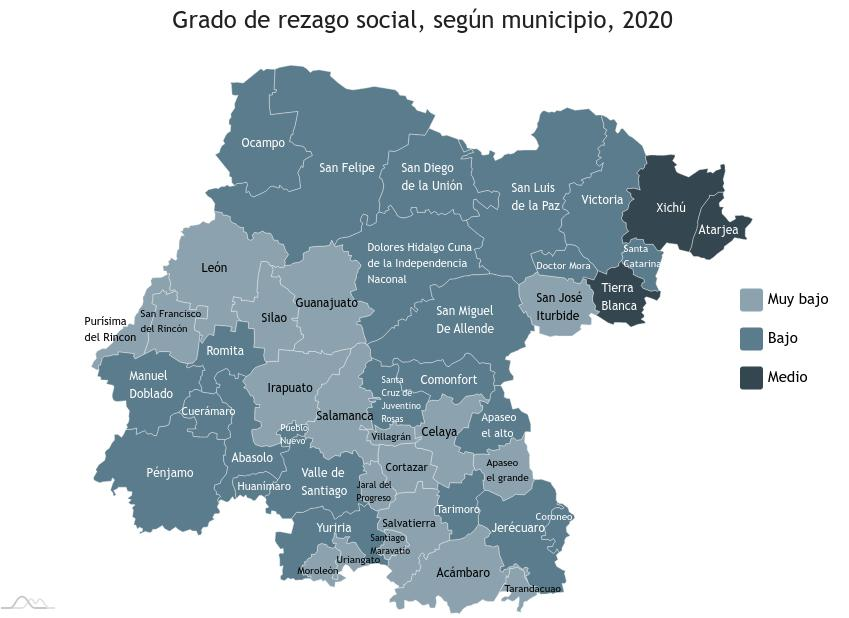
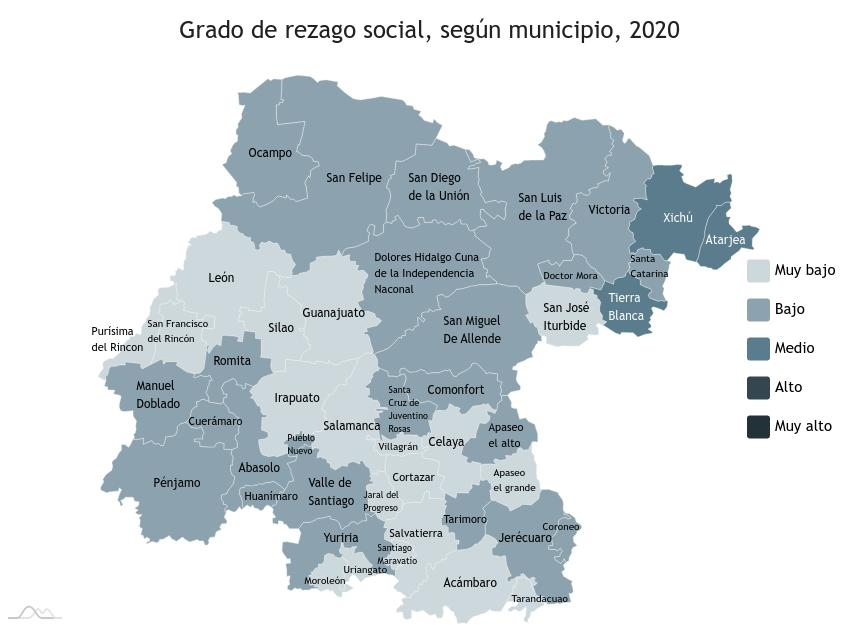
Se agregaron dos rangos mas al mapa de rezago social

diff --git a/Resource/js/app.js b/Resource/js/app.js
@@ -81,6 +81,7 @@
             Range2: "#90a4ae",
             Range3: "#607d8b",
             Range4: "#37474f",
+            Range5: "#263238",
         }],
         Teal: [{
             Range1: "#b2dfdb",
@@ -2185,7 +2186,7 @@
         var RezagoVector = Object2Vector("RezagoSocial");
 
         //      Asignamos un color distinto para cada una de las regiones
-        var s1_range = [], s2_range = [], s3_range = [];
+        var s1_range = [], s2_range = [], s3_range = [], s4_range = [], s5_range = [];
 
         for(var i=0; i<DataGuanajuatoStates.length; i++){
             var RezagoData = DataGuanajuatoStates[i].RezagoSocial;
@@ -2196,6 +2197,10 @@
                 s2_range.push( DataGuanajuatoStates[i].id );
             else if ( RezagoData == "Medio" )
                 s3_range.push( DataGuanajuatoStates[i].id );
+            else if ( RezagoData == "Alto" )
+                s4_range.push( DataGuanajuatoStates[i].id );
+            else if ( RezagoData == "Muy Alto" )
+                s5_range.push( DataGuanajuatoStates[i].id );
         }
 
         /* 1er color */
@@ -2203,8 +2208,8 @@
         s1.name = "Muy bajo";
         s1.useGeodata = true;
         s1.include = s1_range;
-        s1.mapPolygons.template.fill = am4core.color( ColorPalette.Blue_Grey[0].Range2 );
-        s1.fill = am4core.color( ColorPalette.Blue_Grey[0].Range2 );
+        s1.mapPolygons.template.fill = am4core.color( ColorPalette.Blue_Grey[0].Range1 );
+        s1.fill = am4core.color( ColorPalette.Blue_Grey[0].Range1 );
 
         var pts1 = s1.mapPolygons.template;
         pts1.stroke = am4core.color("rgba(240, 240, 240, 0.4)");
@@ -2214,8 +2219,8 @@
         s2.name = "Bajo";
         s2.useGeodata = true;
         s2.include = s2_range;
-        s2.mapPolygons.template.fill = am4core.color( ColorPalette.Blue_Grey[0].Range3 );
-        s2.fill = am4core.color( ColorPalette.Blue_Grey[0].Range3 );
+        s2.mapPolygons.template.fill = am4core.color( ColorPalette.Blue_Grey[0].Range2 );
+        s2.fill = am4core.color( ColorPalette.Blue_Grey[0].Range2 );
 
         var pts2 = s2.mapPolygons.template;
         pts2.stroke = am4core.color("rgba(240, 240, 240, 0.4)");
@@ -2225,11 +2230,34 @@
         s3.name = "Medio";
         s3.useGeodata = true;
         s3.include = s3_range;
-        s3.mapPolygons.template.fill = am4core.color( ColorPalette.Blue_Grey[0].Range4 );
-        s3.fill = am4core.color( ColorPalette.Blue_Grey[0].Range4 );
+        s3.mapPolygons.template.fill = am4core.color( ColorPalette.Blue_Grey[0].Range3 );
+        s3.fill = am4core.color( ColorPalette.Blue_Grey[0].Range3 );
 
         var pts3 = s3.mapPolygons.template;
         pts3.stroke = am4core.color("rgba(240, 240, 240, 0.4)");
+
+        /* 4to color */
+        var s4 = chart.series.push(new am4maps.MapPolygonSeries());
+        s4.name = "Alto";
+        s4.useGeodata = true;
+        s4.include = s4_range;
+        s4.mapPolygons.template.fill = am4core.color( ColorPalette.Blue_Grey[0].Range4 );
+        s4.fill = am4core.color( ColorPalette.Blue_Grey[0].Range4 );
+
+        var pts4 = s4.mapPolygons.template;
+        pts4.stroke = am4core.color("rgba(240, 240, 240, 0.4)");
+
+        /* 5to color */
+        var s5 = chart.series.push(new am4maps.MapPolygonSeries());
+        s5.name = "Muy alto";
+        s5.useGeodata = true;
+        s5.include = s5_range;
+        s5.mapPolygons.template.fill = am4core.color( ColorPalette.Blue_Grey[0].Range5 );
+        s5.fill = am4core.color( ColorPalette.Blue_Grey[0].Range5 );
+
+        var pts5 = s5.mapPolygons.template;
+        pts5.stroke = am4core.color("rgba(240, 240, 240, 0.4)");
+
 
         chart.legend = new am4maps.Legend();
         chart.legend.position = "right";
@@ -2622,35 +2650,11 @@
             $('#mapa_guanajuato').empty();
             $('.title-map').text('Grado de rezago social, según municipio, 2020');
             $('.notas-datos').css('color', 'white');
-//            $('.nombre-municipios').children().addClass('black-text');
+            $('.nombre-municipios').children().addClass('black-text');
 
-            $('.label-Xichu').addClass('white-text');
-            $('.label-Atarjea').addClass('white-text');
-            $('.label-TierraBlanca').addClass('white-text');
-            $('.label-Ocampo').addClass('white-text');
-            $('.label-SanFelipe').addClass('white-text');
-            $('.label-SanDiegoDeLaUnion').addClass('white-text');
-            $('.label-SanLuisDeLaPaz').addClass('white-text');
-            $('.label-Victoria').addClass('white-text');
-            $('.label-SantaCatarina').addClass('white-text');
-            $('.label-DoctorMora').addClass('white-text');
-            $('.label-DoloresHidalgo').addClass('white-text');
-            $('.label-SanMiguelDeAllende').addClass('white-text');
-            $('.label-Comonfort').addClass('white-text');
-            $('.label-ApaseoElAlto').addClass('white-text');
-            $('.label-SantaCruzDeJuventinoRosas').addClass('white-text');
-            $('.label-Tarimoro').addClass('white-text');
-            $('.label-Jerecuaro').addClass('white-text');
-            $('.label-Coroneo').addClass('white-text');
-            $('.label-Romita').addClass('white-text');
-            $('.label-ManuelDoblado').addClass('white-text');
-            $('.label-Cueramaro').addClass('white-text');
-            $('.label-Penjamo').addClass('white-text');
-            $('.label-Abasolo').addClass('white-text');
-            $('.label-Huanimaro').addClass('white-text');
-            $('.label-PuebloNuevo').addClass('white-text');
-            $('.label-ValleDeSantiago').addClass('white-text');
-            $('.label-Yuriria').addClass('white-text');
+            $('.label-Xichu').removeClass('black-text').addClass('white-text');
+            $('.label-Atarjea').removeClass('black-text').addClass('white-text');
+            $('.label-TierraBlanca').removeClass('black-text').addClass('white-text');
 
             Mapa_RezagoSocial();
         }

diff --git a/index.html b/index.html
@@ -11,6 +11,8 @@
 </head>
 <body>
 
+<!--    Indice de Desarrollo Humano -->
+
     <br>
     <div class="row">
         <div class="col l1"></div>
@@ -27,8 +29,8 @@
                 <li class="collection-item"><div>8. Cobertura nivel secundaria<a class="secondary-content black-text"><i class="material-icons"></i></a></div></li>
                 <li class="collection-item"><div>9. Cobertura nivel media superior<a class="secondary-content black-text"><i class="material-icons"></i></a></div></li>
                 <li class="collection-item"><div>10. Cobertura nivel superior<a class="secondary-content black-text"><i class="material-icons"></i></a></div></li>
-                <li class="collection-item"><div>11. Reprobación primaria 2019-2020<a class="secondary-content black-text"><i class="material-icons"></i></a></div></li>
-                <li class="collection-item"><div>12. Reprobación secundaria 2019-2020<a class="secondary-content black-text"><i class="material-icons"></i></a></div></li>
+                <li class="collection-item green lighten-4"><div>11. Reprobación primaria 2019-2020<a class="secondary-content black-text"><i class="material-icons"></i></a></div></li>
+                <li class="collection-item green lighten-4"><div>12. Reprobación secundaria 2019-2020<a class="secondary-content black-text"><i class="material-icons"></i></a></div></li>
                 <li class="collection-item"><div>13. Reprobación MS 2019-2020<a class="secondary-content black-text"><i class="material-icons"></i></a></div></li>
                 <li class="collection-item"><div>14. Eficiencia terminal primaria 2019-2020<a class="secondary-content black-text"><i class="material-icons"></i></a></div></li>
                 <li class="collection-item"><div>15. Eficiencia terminal secundaria 2019-2020<a class="secondary-content black-text"><i class="material-icons"></i></a></div></li>
@@ -36,8 +38,8 @@
                 <li class="collection-item"><div>17. Abandono escolar primaria 2019-2020<a class="secondary-content black-text"><i class="material-icons"></i></a></div></li>
                 <li class="collection-item"><div>18. Abandono escolar secundaria 2019-2020<a class="secondary-content black-text"><i class="material-icons"></i></a></div></li>
                 <li class="collection-item"><div>19. Abandono escolar MS 2019-2020<a class="secondary-content black-text"><i class="material-icons"></i></a></div></li>
-                <li class="collection-item"><div>20. Abandono escolar superior 2019-2020<a class="secondary-content black-text"><i class="material-icons"></i></a></div></li>
-                <li class="collection-item"><div>21. Rezago social 2020<a class="secondary-content black-text"><i class="material-icons"></i></a></div></li>
+                <li class="collection-item green lighten-4"><div>20. Abandono escolar superior 2019-2020<a class="secondary-content black-text"><i class="material-icons"></i></a></div></li>
+                <li class="collection-item green lighten-4"><div>21. Rezago social 2020<a class="secondary-content black-text"><i class="material-icons"></i></a></div></li>
               </ul>
         </div>
         <div class="col l7">
